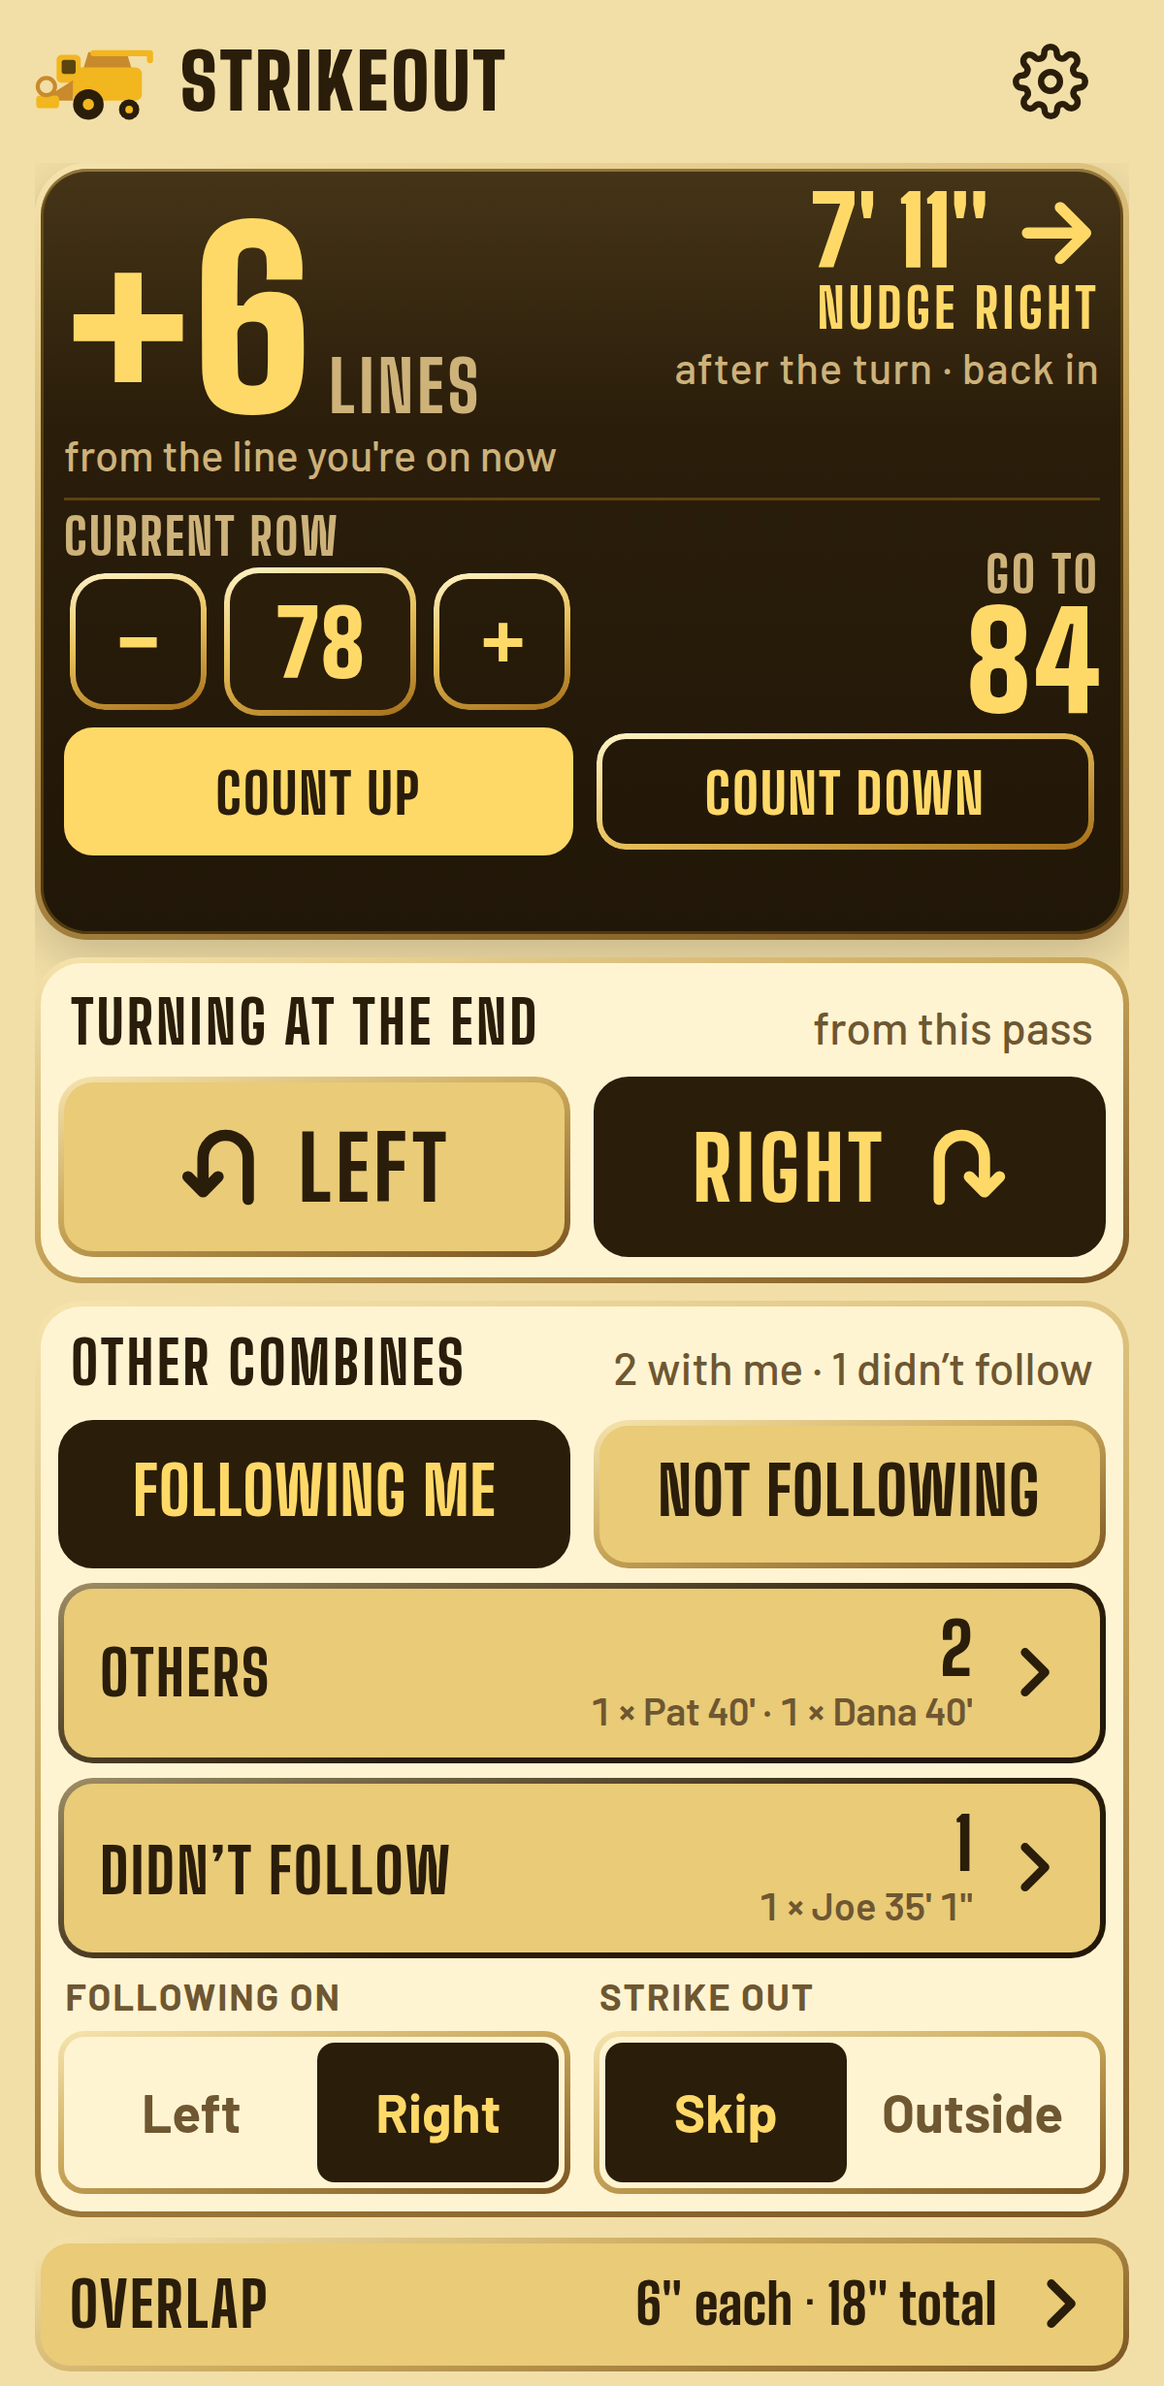
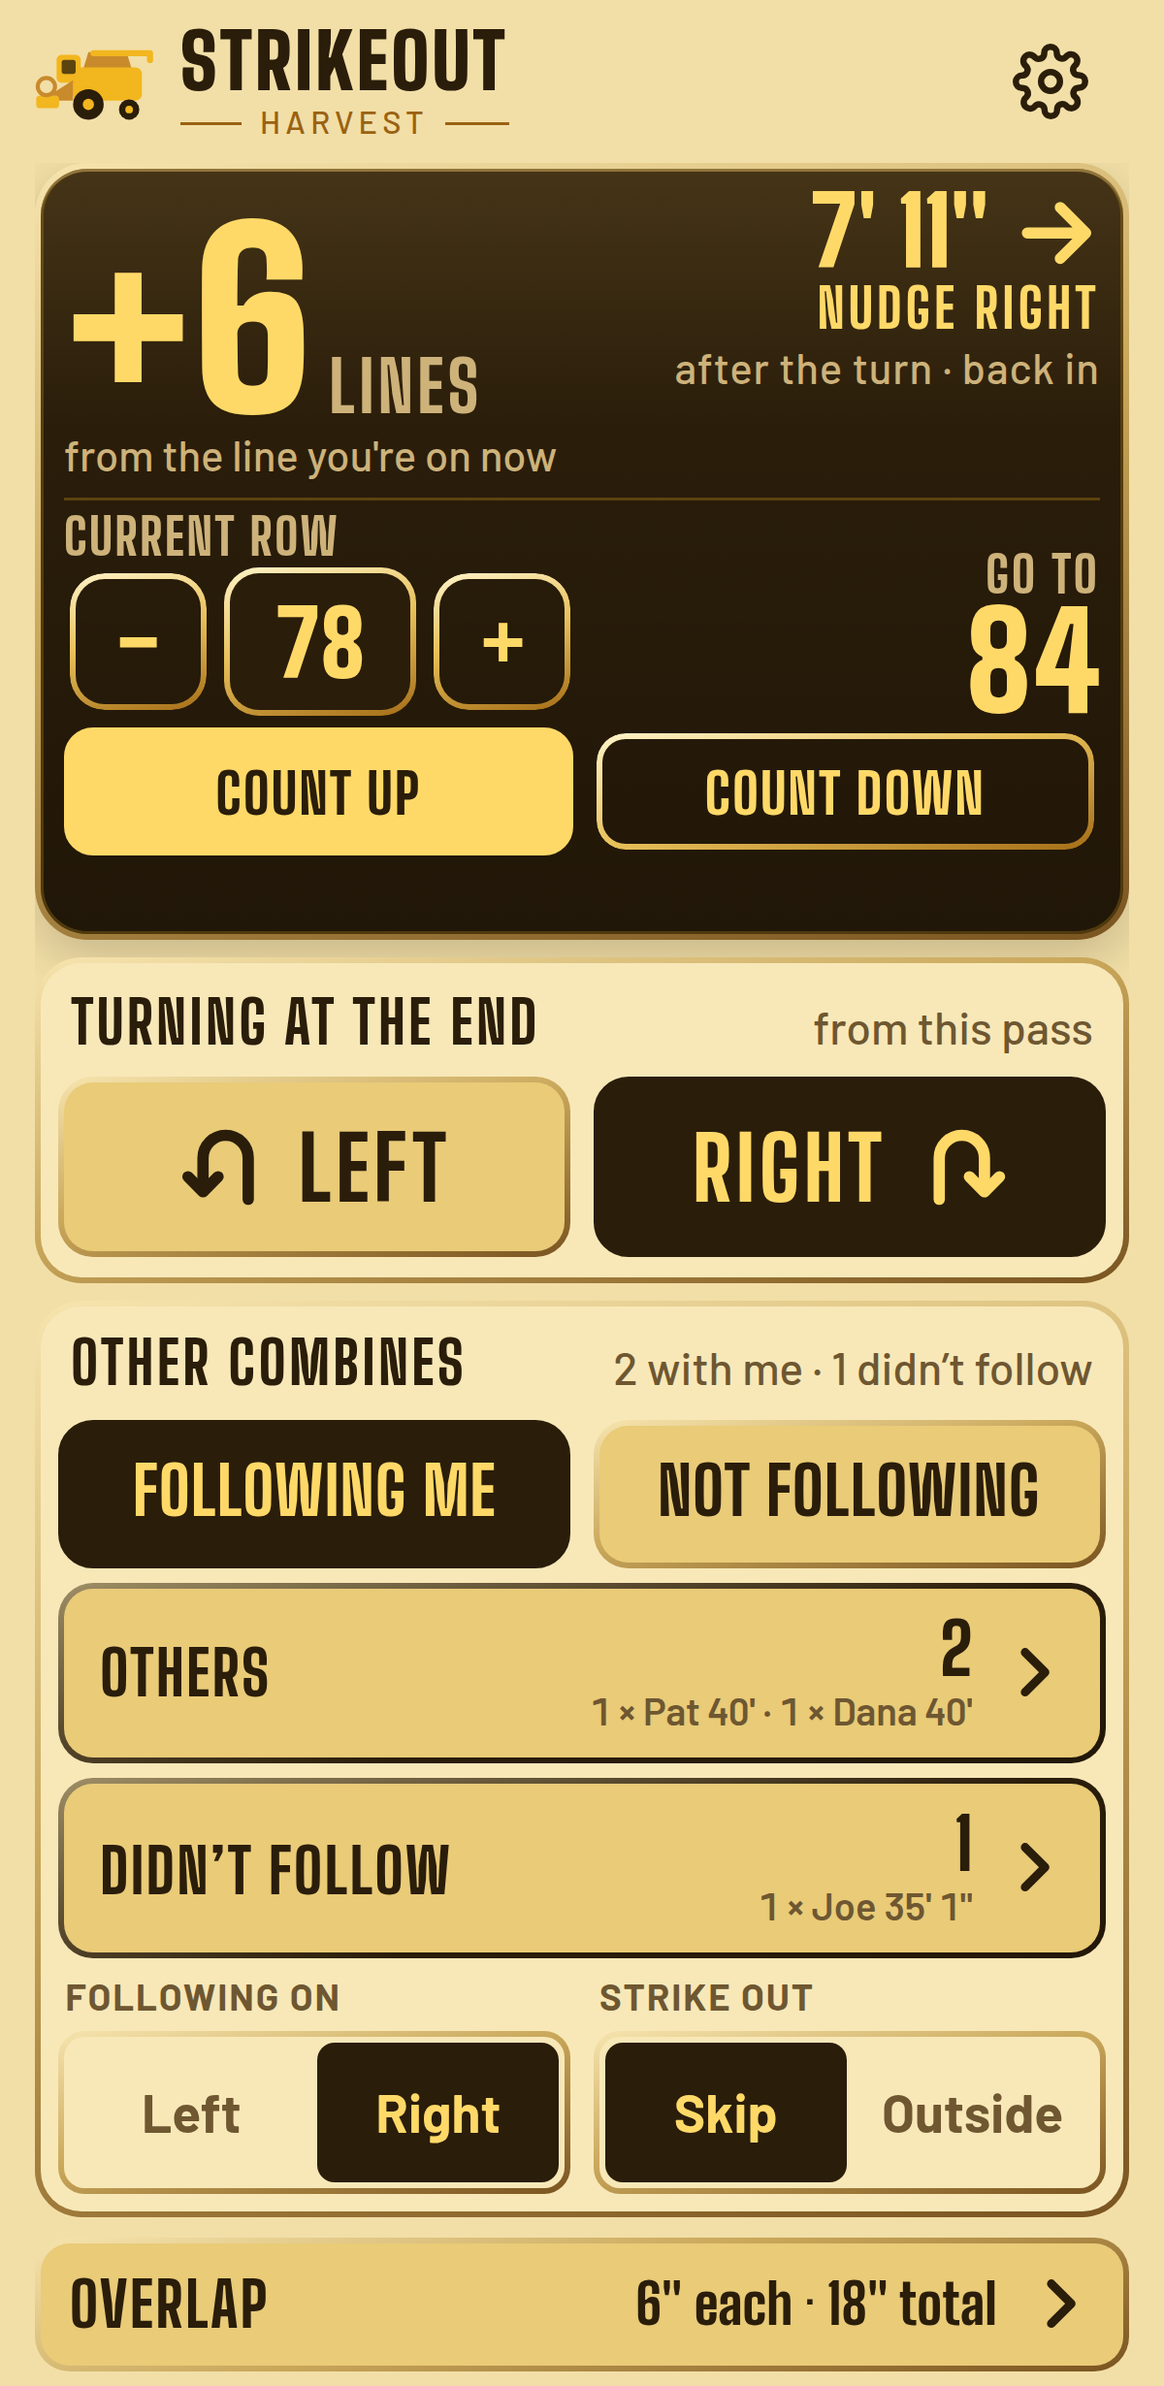
Update Play assets for Strikeout Harvest 1.0.74
Match the rebranded name, lockup icon, feature graphic, and screenshots, and set the TWA versionName to 1.0.74.

Changed region(s): [[0.0308, 0.4016, 0.9867, 0.9268], [0.1542, 0.0, 0.4317, 0.0618]]

diff --git a/play/privacy.html b/play/privacy.html
@@ -4,8 +4,8 @@
 <meta charset="utf-8">
 <meta name="viewport" content="width=device-width, initial-scale=1, viewport-fit=cover">
 <meta name="theme-color" content="#F2DFA7">
-<meta name="description" content="Privacy policy for Strikeout, published by Randy's Canadian Ltd. Location stays on the phone. No accounts, no ads, no trackers.">
-<title>Privacy policy — Strikeout</title>
+<meta name="description" content="Privacy policy for Strikeout Harvest, published by Randy's Canadian Ltd. Location stays on the phone. No accounts, no ads, no trackers.">
+<title>Privacy policy — Strikeout Harvest</title>
 <style>
 @font-face{font-family:"Barlow";font-style:normal;font-weight:500;font-display:swap;src:url("../fonts/barlow-latin-500.woff2") format("woff2");unicode-range:U+0000-00FF,U+0131,U+0152-0153,U+02BB-02BC,U+02C6,U+02DA,U+02DC,U+0304,U+0308,U+0329,U+2000-206F,U+20AC,U+2122,U+2191,U+2193,U+2212,U+2215,U+FEFF,U+FFFD}
 @font-face{font-family:"Barlow";font-style:normal;font-weight:600;font-display:swap;src:url("../fonts/barlow-latin-600.woff2") format("woff2");unicode-range:U+0000-00FF,U+0131,U+0152-0153,U+02BB-02BC,U+02C6,U+02DA,U+02DC,U+0304,U+0308,U+0329,U+2000-206F,U+20AC,U+2122,U+2191,U+2193,U+2212,U+2215,U+FEFF,U+FFFD}
@@ -28,18 +28,18 @@ a{color:var(--ink);font-weight:700}
 </head>
 <body>
 <main>
-  <p class="brand">Strikeout</p>
+  <p class="brand">Strikeout Harvest</p>
   <h1>Privacy policy</h1>
-  <p>Strikeout is published by Randy's Canadian Ltd, a Canadian company. This page is the privacy policy for the Strikeout app on Google Play and for the Strikeout website. Replace CONTACT_EMAIL with a real address before you give this URL to Play Console.</p>
-  <p>Strikeout runs on your phone. This is what it does with information, in plain words.</p>
+  <p>Strikeout Harvest is published by Randy's Canadian Ltd, a Canadian company. This page is the privacy policy for the Strikeout Harvest app on Google Play and for the Strikeout Harvest website. Replace CONTACT_EMAIL with a real address before you give this URL to Play Console.</p>
+  <p>Strikeout Harvest runs on your phone. This is what it does with information, in plain words.</p>
 
   <h2>Location</h2>
-  <p>Location is used for the optional Auto line advance, and for Screen set to Auto. Auto watches how far you have driven along the field so the current row can move after a real turnaround. That uses precise GPS while Auto is on and the app is open. Screen set to Auto uses location to choose day or night from sunrise and sunset. It does not use the light sensor. A coarse fix is enough for sunrise and sunset. If Auto is off and Screen is Day or Night, Strikeout does not use location.</p>
-  <p>Coordinates stay in memory on the phone. They are not written into the saved field setup, and they are not sent to Randy's Canadian Ltd or to anyone else. Strikeout does not track you in the background and does not share location with other people.</p>
+  <p>Location is used for the optional Auto line advance, and for Screen set to Auto. Auto watches how far you have driven along the field so the current row can move after a real turnaround. That uses precise GPS while Auto is on and the app is open. Screen set to Auto uses location to choose day or night from sunrise and sunset. It does not use the light sensor. A coarse fix is enough for sunrise and sunset. If Auto is off and Screen is Day or Night, Strikeout Harvest does not use location.</p>
+  <p>Coordinates stay in memory on the phone. They are not written into the saved field setup, and they are not sent to Randy's Canadian Ltd or to anyone else. Strikeout Harvest does not track you in the background and does not share location with other people.</p>
 
   <h2>On this phone</h2>
   <p>Header sizes, crew counts, the current row, and the rest of your field setup stay on this phone. They are not uploaded. Updating the app refreshes the files and leaves that setup where it is. Reset everything, in Settings, clears that setup on this phone. There is no copy on a server to delete.</p>
-  <p>You can send a header list to another phone with the phone's own share sheet or a file. That send is started by you. Strikeout does not run a message service and does not see who you send it to.</p>
+  <p>You can send a header list to another phone with the phone's own share sheet or a file. That send is started by you. Strikeout Harvest does not run a message service and does not see who you send it to.</p>
 
   <h2>No ads, no trackers</h2>
   <p>There are no ads and no trackers. Nothing is sent to a server — not your numbers, not your location, not a name. There is no account to sign in to. The app does not collect or sell personal information.</p>
@@ -50,7 +50,7 @@ a{color:var(--ink);font-weight:700}
 
   <h2>Contact</h2>
   <p>Randy's Canadian Ltd<br>Canada<br>Email: CONTACT_EMAIL</p>
-  <p class="back"><a href="https://randyscustomapps.github.io/strikeout/">Back to Strikeout</a></p>
+  <p class="back"><a href="https://randyscustomapps.github.io/strikeout/">Back to Strikeout Harvest</a></p>
 </main>
 </body>
 </html>

diff --git a/play/graphics/feature-graphic.html b/play/graphics/feature-graphic.html
@@ -2,46 +2,51 @@
 <html lang="en">
 <head>
 <meta charset="utf-8">
-<title>Strikeout feature graphic</title>
+<title>Strikeout Harvest feature graphic</title>
 <style>
-@font-face{font-family:"Barlow";font-style:normal;font-weight:600;font-display:block;src:url("../../fonts/barlow-latin-600.woff2") format("woff2")}
-@font-face{font-family:"Big Shoulders Display";font-style:normal;font-weight:800;font-display:block;src:url("../../fonts/big-shoulders-display-latin-800.woff2") format("woff2")}
+@font-face{font-family:"Barlow";font-style:normal;font-weight:500;font-display:block;src:url("../../fonts/barlow-latin-500.woff2") format("woff2")}
+@font-face{font-family:"Big Shoulders Display";font-style:normal;font-weight:900;font-display:block;src:url("../../fonts/big-shoulders-display-latin-900.woff2") format("woff2")}
 html,body{margin:0;width:1024px;height:500px;overflow:hidden;background:#2A1D0A}
 .wrap{
   width:1024px;height:500px;box-sizing:border-box;
-  display:flex;align-items:center;gap:8px;
-  padding:28px 64px 28px 20px;
+  display:flex;align-items:center;justify-content:center;gap:28px;
+  padding:36px 64px 36px 28px;
 }
-img{width:444px;height:444px;flex:none;display:block}
-.copy{min-width:0}
-h1{
+/* icon-512.png is the combine over the lockup. This window shows the combine only. */
+.rig{width:440px;height:246px;flex:none;overflow:hidden;position:relative}
+.rig img{position:absolute;width:700px;height:700px;left:50%;top:-168px;transform:translateX(-50%);display:block}
+.lock{display:flex;flex-direction:column;align-items:stretch;min-width:0}
+.name{
   margin:0;
   font-family:"Big Shoulders Display","Arial Narrow",Impact,sans-serif;
-  font-weight:800;
-  font-size:92px;
+  font-weight:900;
+  font-size:84px;
   line-height:.86;
-  letter-spacing:.045em;
+  letter-spacing:.04em;
   text-transform:uppercase;
-  color:#F2DFA7;
+  color:#FFD968;
 }
-.rule{width:132px;height:5px;margin:18px 0 0;background:#F2B61F;border:0}
-p{
-  margin:16px 0 0;
+.subrow{display:flex;align-items:center;gap:14px;margin-top:16px;color:#E0A91C}
+.subrow i{flex:1;height:2px;background:currentColor;display:block}
+.sub{
   font-family:"Barlow","Segoe UI",Roboto,sans-serif;
-  font-weight:600;
+  font-weight:500;
   font-size:28px;
-  line-height:1.25;
-  color:#E0A91C;
+  letter-spacing:.16em;
+  text-transform:uppercase;
+  line-height:1;
+  padding-left:.16em;
 }
 </style>
 </head>
 <body>
 <div class="wrap">
-  <img src="../../icon-512.png" alt="">
-  <div class="copy">
-    <h1>Strikeout</h1>
-    <hr class="rule">
-    <p>Lines to skip.<br>Nudge to finish flush.</p>
+  <div class="rig" aria-hidden="true">
+    <img src="../../icon-512.png" alt="">
+  </div>
+  <div class="lock">
+    <h1 class="name">Strikeout</h1>
+    <div class="subrow"><i></i><span class="sub">Harvest</span><i></i></div>
   </div>
 </div>
 </body>

diff --git a/play/listing.md b/play/listing.md
@@ -1,4 +1,4 @@
-# Strikeout — Play Store listing draft
+# Strikeout Harvest — Play Store listing draft
 
 Paste the blocks below into Play Console. Limits are Google's. The price is a console setting, not part of the description, because Play localizes prices.
 
@@ -8,11 +8,11 @@ Graphics to upload are in `play/graphics/`. See the file list at the end.
 
 Play allows 30 characters.
 
-**Use:** Strikeout
+**Use:** Strikeout Harvest
 
-**Alternative, if you want the harvest in the name:** Strikeout Harvest
+17 characters. The limit is 30.
 
-The launcher icon already says the word through the combine mark. The in-app title is Strikeout. The alternative is only for the store name.
+The in-app header is heavy STRIKEOUT with small gold HARVEST between thin gold rules. The Android launcher label is Strikeout, the web manifest `short_name`, so the name fits under the icon. The store name is the full Strikeout Harvest.
 
 ## Short description
 
@@ -27,9 +27,9 @@ Skip GPS lines and nudge so the crew's return pass finishes flush.
 4000 characters maximum. Paste as plain text. This draft is the block between the fences.
 
 ```
-Strikeout tells the lead combine how many GPS lines to skip, and how far to nudge, so the crew's return pass finishes the land flush.
+Strikeout Harvest tells the lead combine how many GPS lines to skip, and how far to nudge, so the crew's return pass finishes the land flush.
 
-You are on a line. The others are out with you, or they are not. Strikeout turns header widths, overlap, and who is actually in the pass into one card: the line to go to, and a nudge left or right after the turn.
+You are on a line. The others are out with you, or they are not. Strikeout Harvest turns header widths, overlap, and who is actually in the pass into one card: the line to go to, and a nudge left or right after the turn.
 
 On the pass
 Enter the GPS line you are on now, including the first pass. Count up or count down. Go to is that line plus or minus the move. On 78 with +6, count up, you go to 84.
@@ -92,7 +92,7 @@ App type: **not a game**. In the IARC questionnaire, choose the utility / all-ot
 | User-generated content that other people can browse or that is shared publicly | No |
 | Unrestricted internet, social, or chat | No |
 
-Header share: Settings can hand header names and widths to the phone's share sheet, or to a file the operator sends. Strikeout does not host that message, does not have profiles, and does not show anyone else's content. If a question's wording says that any sharing at all counts, answer Yes only to that narrow item, then No to public posting, in-app chat, and moderation. Nothing is posted to Strikeout, so there is nothing to moderate.
+Header share: Settings can hand header names and widths to the phone's share sheet, or to a file the operator sends. Strikeout Harvest does not host that message, does not have profiles, and does not show anyone else's content. If a question's wording says that any sharing at all counts, answer Yes only to that narrow item, then No to public posting, in-app chat, and moderation. Nothing is posted to Strikeout Harvest, so there is nothing to moderate.
 
 Expected certificate: Everyone / PEGI 3 / low maturity. That is the content rating. It is separate from target age. Do not raise the content rating just because the operators are adults.
 
@@ -103,7 +103,7 @@ Expected certificate: Everyone / PEGI 3 / low maturity. That is the content rati
 - Designed for children / Families program: **No.**
 - Ads: **No.** The app does not contain ads.
 
-Strikeout is a field tool for people running combines and harvest crews.
+Strikeout Harvest is a field tool for people running combines and harvest crews.
 
 ## Ads and the other App content declarations
 
@@ -136,7 +136,7 @@ Do not declare location as collected. Do declare the location **permission** in 
 - Background location: **no.** The manifest does not request background location. There is no foreground service.
 - Is location required for the app to function? **No.** The line card works with a typed row if location is denied.
 
-Notifications: the package does not request the notification permission. Strikeout never posts a notification. See `play/README.md` for why the project file mentions that permission and then removes it.
+Notifications: the package does not request the notification permission. Strikeout Harvest never posts a notification. See `play/README.md` for why the project file mentions that permission and then removes it.
 
 Privacy policy URL: host `play/privacy.html` after you replace CONTACT_EMAIL. Until that page is on a public URL, Play will not accept a policy that nobody can open. The in-app page already live at `https://randyscustomapps.github.io/strikeout/privacy.html` is the same location and on-device wording, without the company contact line. Use this draft once it is published. A privacy policy URL is required because the app uses location.
 
@@ -144,7 +144,7 @@ Privacy policy URL: host `play/privacy.html` after you replace CONTACT_EMAIL. Un
 
 | File | Size | Use |
 | --- | --- | --- |
-| `play/graphics/icon-512.png` | 512×512 PNG | High-res icon. The flat-auger combine, on the app's dark brown. |
+| `play/graphics/icon-512.png` | 512×512 PNG | High-res icon. Flat-auger combine and the STRIKEOUT / HARVEST lockup, on the app's dark brown. |
 | `play/graphics/feature-graphic.png` | 1024×500 PNG | Feature graphic. |
 | `play/graphics/screenshots/01-home-day.png` | 1200×2460 | Field, day. |
 | `play/graphics/screenshots/02-home-night.png` | 1200×2460 | Field, night. |

diff --git a/play/README.md b/play/README.md
@@ -1,4 +1,4 @@
-# Strikeout on Google Play
+# Strikeout Harvest on Google Play
 
 Draft launch assets for the paid Android app. The website at `https://randyscustomapps.github.io/strikeout/` stays the free demo. Nothing in this folder changes `index.html`, `sw.js`, or `version.json`.
 
@@ -17,11 +17,12 @@ It is only a suggestion. Play locks the id at the first upload, and it cannot be
 | Start URL | `https://randyscustomapps.github.io/strikeout/` |
 | Orientation | Portrait. The website manifest still allows any orientation. The Play app does not. |
 | Theme | Status and navigation `#2A1D0A` (day chrome) and `#0C0904` (night). Splash background `#F2DFA7`, from the web manifest. |
-| Icon | The live `icon-512.png`, the flat-auger combine. |
+| Icon | The live `icon-512.png`: flat-auger combine and the STRIKEOUT / HARVEST lockup. |
 | minSdk / targetSdk | 21 / 36. New Play apps in October 2026 have to target Android 16 (API 36). |
-| Version | `versionName` 1.0.69, `versionCode` 1, matching the current site. Play's versionCode must go up on every upload. It is independent of the website's `APP_VERSION` after this. |
+| Version | `versionName` 1.0.74, `versionCode` 1, matching the current site. Play's versionCode must go up on every upload. It is independent of the website's `APP_VERSION` after this. |
 | Location | Location delegation is on, so GPS uses the Android permission dialog. The manifest requests precise and coarse location, in the foreground. |
-| Notifications | DelegationService has to be enabled for that location bridge, which is Bubblewrap's notification flag. Strikeout never posts a notification. `build-release.sh` strips `POST_NOTIFICATIONS` after a Bubblewrap update rewrites the manifest. |
+| Name | Application name Strikeout Harvest. Launcher label Strikeout, same as the web manifest `short_name`, so it fits under the icon. |
+| Notifications | DelegationService stays enabled so location delegation can register. Strikeout Harvest never posts a notification. `build-release.sh` strips `POST_NOTIFICATIONS` after a Bubblewrap update rewrites the manifest. |
 | Fallback | Custom Tabs, if the device has no Trusted Web Activity browser. Not a bundled WebView. |
 | Offline | The site's service worker. Open the app once with a connection so Chrome can cache it. After that it runs with no cell service, same as the home-screen install. Offline fullscreen mode also needs the asset links file below. Until that file is live, Chrome may show a browser bar, and the cached pages still load. |
 
@@ -122,7 +123,7 @@ Play Billing and the Digital Goods API sell in-app products and subscriptions: S
 
 Two mechanisms exist. Neither is required to ship.
 
-- **Play Integrity API**, `appLicensingVerdict`: `LICENSED`, `UNLICENSED`, or `UNEVALUATED`. This is the current way to ask Play whether the install came from a purchase. The standard API wants a small backend to check the token. Strikeout has no backend. Skip it until there is one.
+- **Play Integrity API**, `appLicensingVerdict`: `LICENSED`, `UNLICENSED`, or `UNEVALUATED`. This is the current way to ask Play whether the install came from a purchase. The standard API wants a small backend to check the token. Strikeout Harvest has no backend. Skip it until there is one.
 - **Licensing Verification Library (LVL)**, the older paid-app check. It can run in the Android wrapper, before the Trusted Web Activity opens, and it talks to Play from the device with the app's license key. It fits a no-server app better than Play Integrity. It is still extra code, obfuscation, and a failure mode in the cab when Play is unreachable. Add it only if copied APKs become a real problem.
 
 Do not block the website. Buyers and demo users load the same origin.
